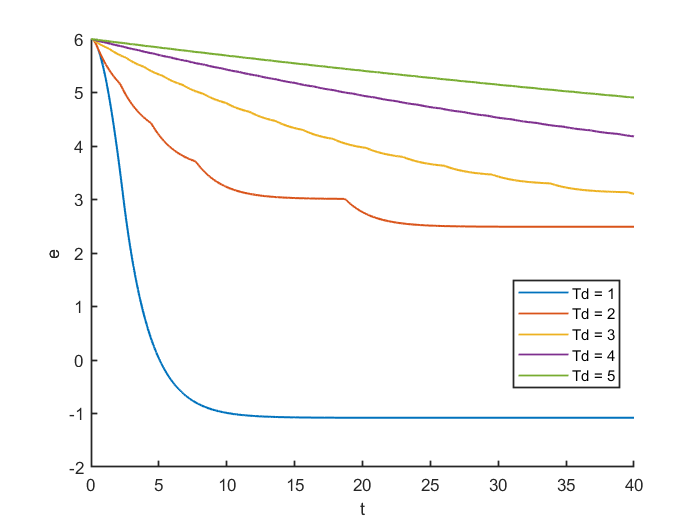
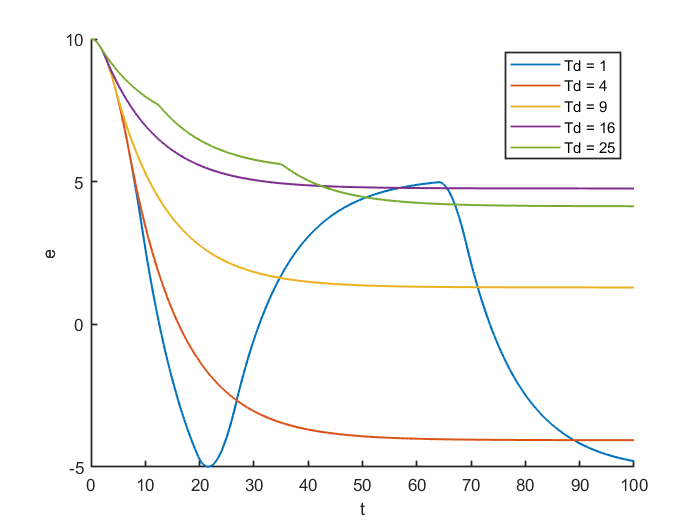
Ostateczna wersja lab 3 TS

diff --git a/lab3 regulacja przekaźnikowa 2/lab3.m b/lab3 regulacja przekaźnikowa 2/lab3.m
@@ -3,7 +3,7 @@ clc
 k=1;
 kr=1;
 Td=1;
-b=2;
+b=0.5;
 %% zad1
 T = 2;
 stop_time = 20;
@@ -126,7 +126,7 @@ k1 = 2;
 k2 = 1;
 B = 2;
 kr = 1;
-T = 1;
+T = 2;
 
 Td = 1.5;
 
@@ -152,24 +152,59 @@ ylabel('e')
 legend('e0 = 1.1','e0 = 1.3','e0 = 1.5','e0 = 1.6','e0 = 1.7')
 
 
+a = 1;
+e0 = 0;
+eprim0 = 0;
+w = i+1;
+k=1;
+k1 = 2;
+k2 = 1;
+B = 2;
+kr = 1;
+T = 2;
+
+Td = 1.5;
+
+out = sim('lab3sim.slx');
+e = out.e3.Data;
+eprim = out.eprim3.Data;
+t = out.tout;
+
+figure(7)
+hold on
+plot(e,eprim);
+xlabel('e')
+ylabel('eprim')
+%legend( 'Td = 1', 'Td = 2','Td = 3','Td = 4','Td = 5')
+legend('w = 2','w = 3','w = 4','w = 5','w = 6')
+
+figure(8)
+hold on 
+plot(t,e)
+xlabel('t')
+ylabel('e')
+%legend( 'Td = 1', 'Td = 2','Td = 3','Td = 4','Td = 5')
+legend('w = 2','w = 3','w = 4','w = 5','w = 6')
+
+
 end
 
 %% Zad4 
 
-stop_time = 40;
+stop_time = 100;
 %i=1.1:0.01:1.2
 for i=1:5
-a = 3;
-b = 1;
-e0 = -6;
+a = 5;
+b = 2;
+e0 = -10;
 eprim0 = 0;
 w = 0;
 k=1;
 k1 = 2;
 k2 = 1;
-B = 3;
+B = 2;
 kr = 1;
-T = 2;
+T = 10;
 
 Td = i^3;
 
@@ -178,18 +213,136 @@ e = out.e4.Data;
 eprim = out.eprim4.Data;
 t = out.tout;
 
-figure(7)
+figure(9)
 hold on
 plot(e,eprim);
 xlabel('e')
 ylabel('eprim')
-legend( 'Td = 1', 'Td = 2','Td = 3','Td = 4','Td = 5')
+legend( 'Td = 1', 'Td = 4','Td = 9','Td = 16','Td = 25')
+grid on
 
-figure(8)
+figure(10)
 hold on 
 plot(t,e)
 xlabel('t')
 ylabel('e')
-legend( 'Td = 1', 'Td = 2','Td = 3','Td = 4','Td = 5')
+legend( 'Td = 1', 'Td = 4','Td = 9','Td = 16','Td = 25')
+
+if i==5
+    break;
+end
+
+% a = i+1;
+% b = 1;
+% e0 = -7;
+% eprim0 = 0;
+% w = 0;
+% k=1;
+% k1 = 2;
+% k2 = 1;
+% B = 5;
+% kr = 1;
+% T = 4;
+% 
+% Td = 1.5;
+% 
+% out = sim('lab3sim.slx');
+% e = out.e4.Data;
+% eprim = out.eprim4.Data;
+% t = out.tout;
+% 
+% figure(11)
+% hold on
+% plot(e,eprim);
+% xlabel('e')
+% ylabel('eprim')
+% legend( 'Δ= 1','Δ = 2','Δ = 3','Δ = 4')
+% 
+% figure(12)
+% hold on 
+% plot(t,e)
+% xlabel('t')
+% ylabel('e')
+% legend( 'Δ= 1','Δ = 2','Δ = 3','Δ = 4')
 
 end
+%% poslizg
+a = 2;
+b = 1;
+e0 = -10;
+eprim0 = 0;
+w = 0;
+k=1;
+k1 = 2;
+k2 = 1;
+B = 2;
+kr = 1;
+T = 2;
+
+Td = 5;
+
+x = 1:0.01:10;
+y1 = (x-b)*(-1/Td);
+y2 = (x-a)*(-1/Td);
+out = sim('lab3sim.slx');
+e = out.e4.Data;
+eprim = out.eprim4.Data;
+t = out.tout;
+
+figure(13)
+hold on
+plot(e,eprim);
+plot(x,y1,'--','Color',[0,0,0])
+plot(x,y2,'--','Color',[0,0,0])
+xlabel('e')
+ylabel('eprim')
+
+
+figure(14)
+hold on 
+plot(t,e)
+xlabel('t')
+ylabel('e')
+
+
+
+a = 2;
+b = 1;
+e0 = 10;
+eprim0 = 0;
+w = 0;
+k=5;
+k1 = 2;
+k2 = 1;
+B = 10;
+kr = 1;
+T = 2;
+
+Td = 0.75;
+
+x = -10:0.01:10;
+y1 = (x-b)*(-1/Td);
+y2 = (x-a)*(-1/Td);
+y3 = (x+b)*(-1/Td);
+y4 = (x+a)*(-1/Td);
+out = sim('lab3sim.slx');
+e = out.e4.Data;
+eprim = out.eprim4.Data;
+t = out.tout;
+
+figure(15)
+hold on
+plot(e,eprim);
+plot(x,y1,'--','Color',[0,0,0])
+plot(x,y2,'--','Color',[0,0,0])
+plot(x,y3,'--','Color',[0,0,0])
+plot(x,y4,'--','Color',[0,0,0])
+xlabel('e')
+ylabel('eprim')
+ylim([-5,15])
+
+figure(16)
+hold on 
+plot(t,e)
+xlabel('t')
+ylabel('e')
